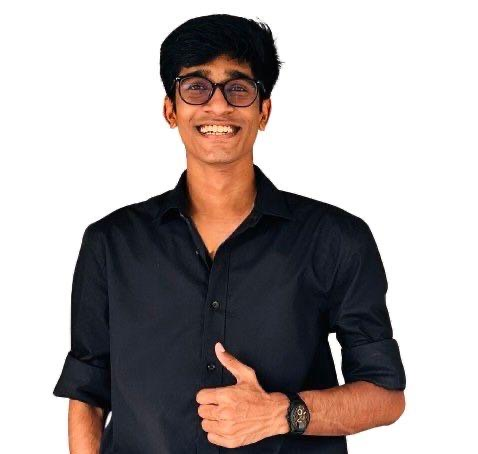
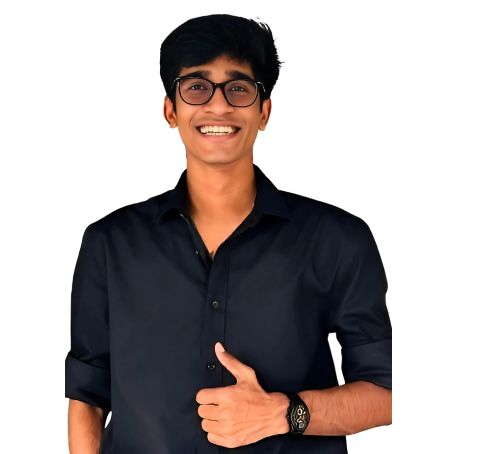
fix image

diff --git a/components/Contact.tsx b/components/Contact.tsx
@@ -22,12 +22,8 @@ export const Contact = () => {
           <iframe
             src="https://tally.so/embed/mYpqJn?alignLeft=1&hideTitle=1&transparentBackground=1"
             width="100%"
-            height="600"
-            frameBorder="0"
-            marginHeight={0}
-            marginWidth={0}
             title="Contact Form"
-            className="w-full h-[600px] rounded-xl"
+            className="w-full h-[500px] rounded-xl"
             allow="clipboard-write"
           ></iframe>
         </div>
